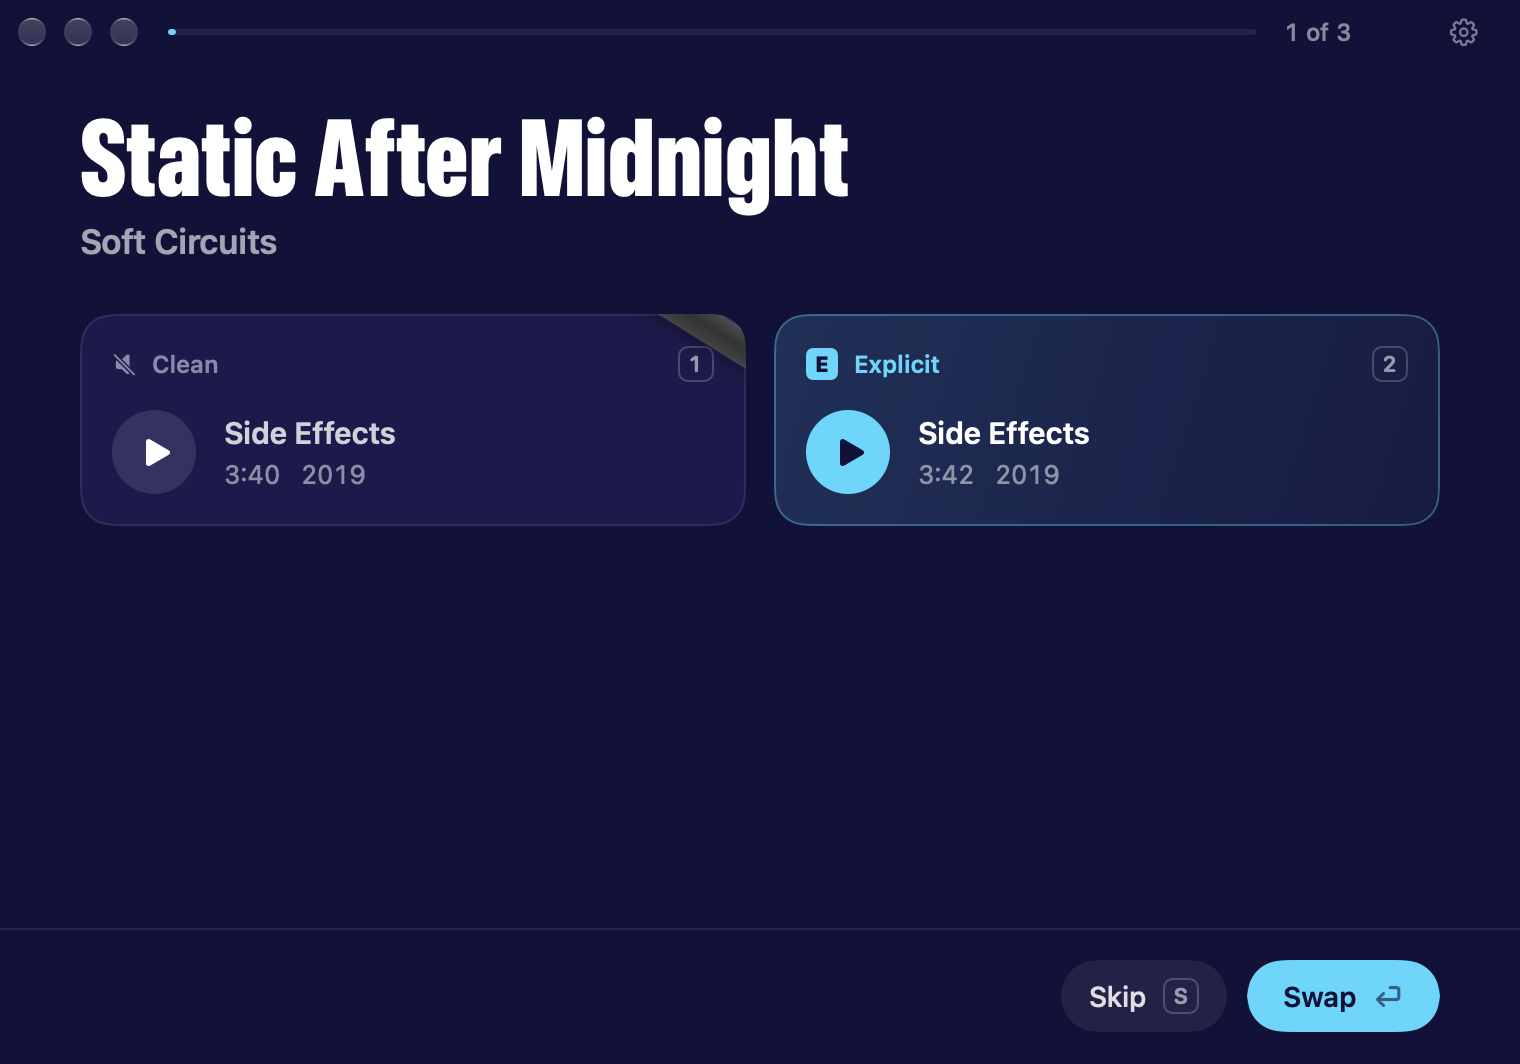
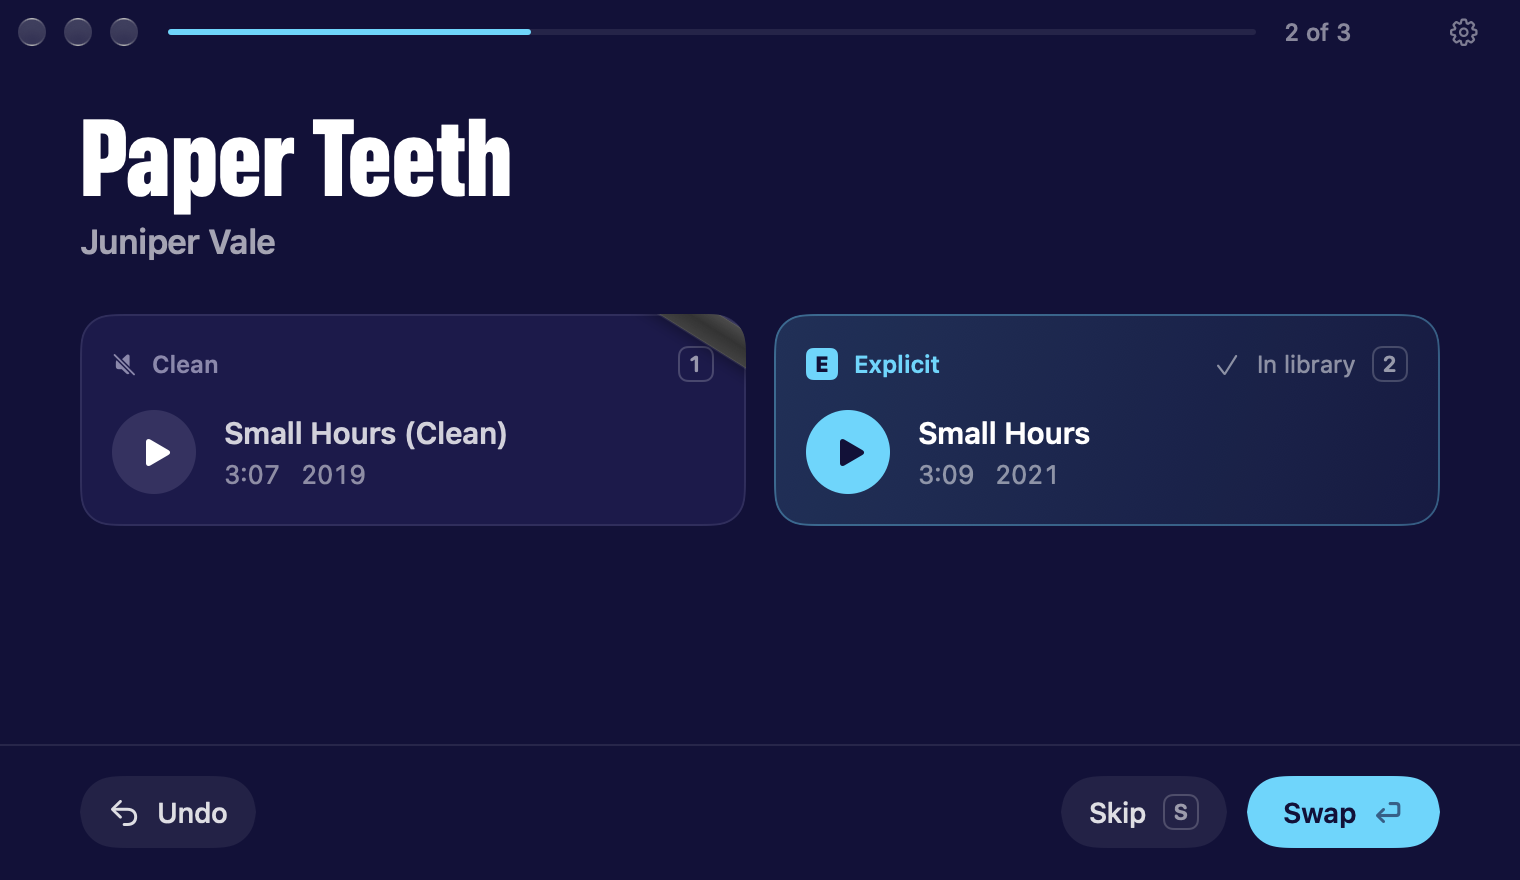
📝 Refresh the README preview

diff --git a/README.md b/README.md
@@ -2,7 +2,7 @@
 
 Apple Music kept sneaking clean edits into my library, so I made Unbleep. It finds the clean tracks, lets you play both versions side by side, and swaps in the explicit ones you pick.
 
-![Unbleep comparing a clean track with its explicit version](docs/images/review.png)
+![Unbleep’s review queue showing the clean and explicit editions of a demo track side by side](docs/images/review.png)
 
 Download Unbleep from [Releases](https://github.com/Robdel12/unbleep/releases), unzip it, and drag it into Applications. You’ll need macOS 14 or later, an Apple Music subscription, and Sync Library turned on.
 
